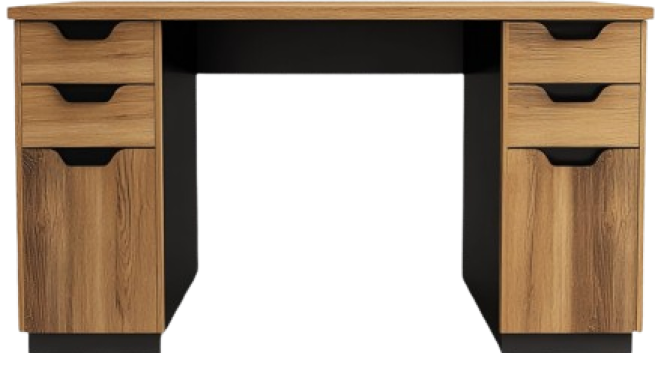
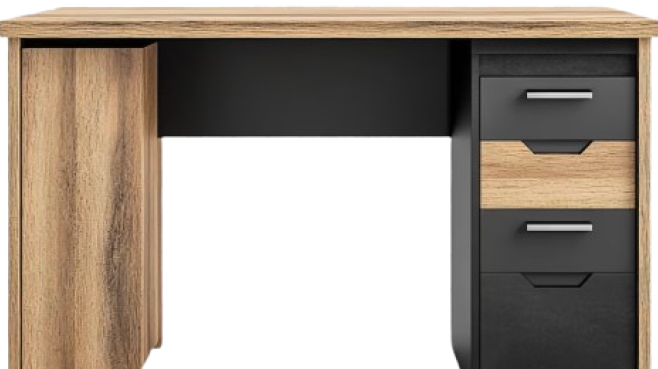
fix(styling): fixing incorect style

diff --git a/components/SelectedItemsSummary.tsx b/components/SelectedItemsSummary.tsx
@@ -5,11 +5,13 @@ import { RentalItem } from "./types";
 interface SelectedItemsSummaryProps {
   selectedItems: RentalItem[];
   dailyRateTotal: number;
+  onRemoveItem?: (item: RentalItem) => void;
 }
 
 export default function SelectedItemsSummary({
   selectedItems,
   dailyRateTotal,
+  onRemoveItem,
 }: SelectedItemsSummaryProps) {
   return (
     <div className="border border-gray-200 rounded-lg p-6 bg-white shadow-sm space-y-4">
@@ -17,7 +19,6 @@ export default function SelectedItemsSummary({
         <h3 className="font-semibold text-base text-black">
           Selected Setup Items ({selectedItems.length})
         </h3>
-        
       </div>
 
       {/* List Preview Grid */}
@@ -39,8 +40,34 @@ export default function SelectedItemsSummary({
               <div className="flex-1 min-w-0">
                 <span className="block text-xs font-semibold text-black truncate">{item.name}</span>
                 <span className="block text-[11px] text-gray-500 capitalize">Group: {item.group_id}</span>
+                  <span className="text-xs font-bold text-black">
+                  ${item.pricePerDay} / day
+                </span>
               </div>
-              <span className="text-xs font-bold text-black flex-shrink-0">${item.pricePerDay} / day</span>
+              <div className="flex items-center gap-2 flex-shrink-0">
+              
+                {onRemoveItem && (
+                  <button
+                    onClick={() => onRemoveItem(item)}
+                    className="p-1 text-gray-400 hover:text-red-600 transition-colors rounded hover:bg-gray-200"
+                    title="Remove item"
+                  >
+                    <svg
+                      className="w-4 h-4"
+                      fill="none"
+                      viewBox="0 0 24 24"
+                      stroke="currentColor"
+                    >
+                      <path
+                        strokeLinecap="round"
+                        strokeLinejoin="round"
+                        strokeWidth={1.5}
+                        d="M19 7l-.867 12.142A2 2 0 0116.138 21H7.862a2 2 0 01-1.995-1.858L5 7m5 4v6m4-6v6m1-10V4a1 1 0 00-1-1h-4a1 1 0 00-1 1v3M4 7h16"
+                      />
+                    </svg>
+                  </button>
+                )}
+              </div>
             </div>
           ))}
         </div>

diff --git a/components/PreviewCanvas.tsx b/components/PreviewCanvas.tsx
@@ -74,7 +74,7 @@ export default function PreviewCanvas({ selectedItems }: PreviewCanvasProps) {
               <div
                 className={`transition-all duration-300 ${
                   hasTable
-                    ? "absolute left-1/2 -translate-x-1/2 top-[4%] z-10 pointer-events-none"
+                    ? "absolute left-1/2 -translate-x-1/2 top-[5%] z-10 pointer-events-none"
                     : "relative z-10 flex items-end justify-center mb-2"
                 }`}
               >

diff --git a/app/page.tsx b/app/page.tsx
@@ -231,6 +231,7 @@ export default function Home() {
         <SelectedItemsSummary
           selectedItems={selectedItems}
           dailyRateTotal={dailyRateTotal}
+          onRemoveItem={handleSelectItem}
         />
       </main>
     </div>
